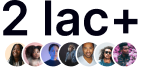
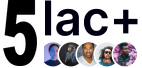
Update timer section proof image to 5 lac+ and lighten offer text
- Edit Frame 13.png: change '2 lac+' to '5 lac+'
- Reduce font-weight of offer subtext and urgency warning in promo/timer section

Changed region(s): [[0.0, 0.0, 0.3099, 1.0]]

diff --git a/dental-implant-14999/index.html b/dental-implant-14999/index.html
@@ -2560,7 +2560,7 @@ height="0" width="0" style="display:none;visibility:hidden"></iframe></noscript>
 
   .offer-subtext {
     font-size: 1rem;
-    font-weight: 700;
+    font-weight: 400;
     color: #000000;
     margin: 0 0 25px 0;
     line-height: 1.4;
@@ -2603,7 +2603,7 @@ height="0" width="0" style="display:none;visibility:hidden"></iframe></noscript>
 
   .urgency-warning {
     font-size: 1.1rem;
-    font-weight: 800;
+    font-weight: 500;
     color: #000000;
     margin: 0 0 20px 0;
     text-align: center;
